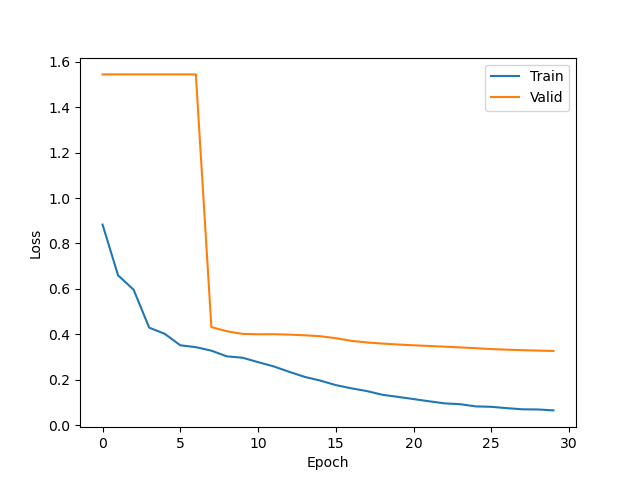
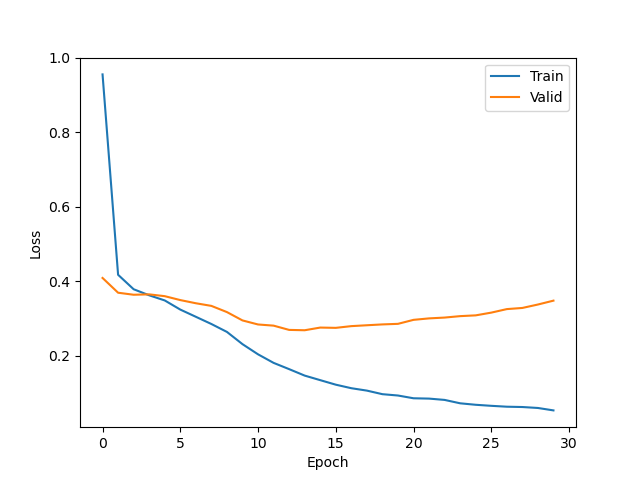
SWA in training also
Fixed

diff --git a/swaLSTM.py b/swaLSTM.py
@@ -114,8 +114,8 @@ def train_model(model, epochs=10, lr=0.001):
             sum_loss += loss.item()*y.shape[0]
             total += y.shape[0]
         train_loss=sum_loss/total
-        #val_loss, val_acc, val_rmse = validation_metrics(model, val_dl)
-        val_loss, val_acc, val_rmse = validation_metrics(swa_model, val_dl)
+        val_loss, val_acc, val_rmse = validation_metrics(model, val_dl)
+        #val_loss, val_acc, val_rmse = validation_metrics(swa_model, val_dl)
         train_loss_list.append(train_loss)
         valid_loss_list.append(val_loss)
         epochs_list.append(i)
@@ -129,7 +129,6 @@ def train_model(model, epochs=10, lr=0.001):
           scheduler.step()
         
         torch.optim.swa_utils.update_bn(train_dl, swa_model)
-        #preds = swa_model(val_dl)
         
 
 
@@ -174,7 +173,8 @@ class LSTM_variable_input(torch.nn.Module) :
         return out
 
 model = LSTM_variable_input(vocab_size, 50, 50)
-train_model(model, epochs=30, lr=0.1)  
+swa_model = AveragedModel(model)
+train_model(swa_model, epochs=30, lr=0.1)  
 metricsfile.close()
 
 plt.plot(epochs_list, train_loss_list, label='Train')
